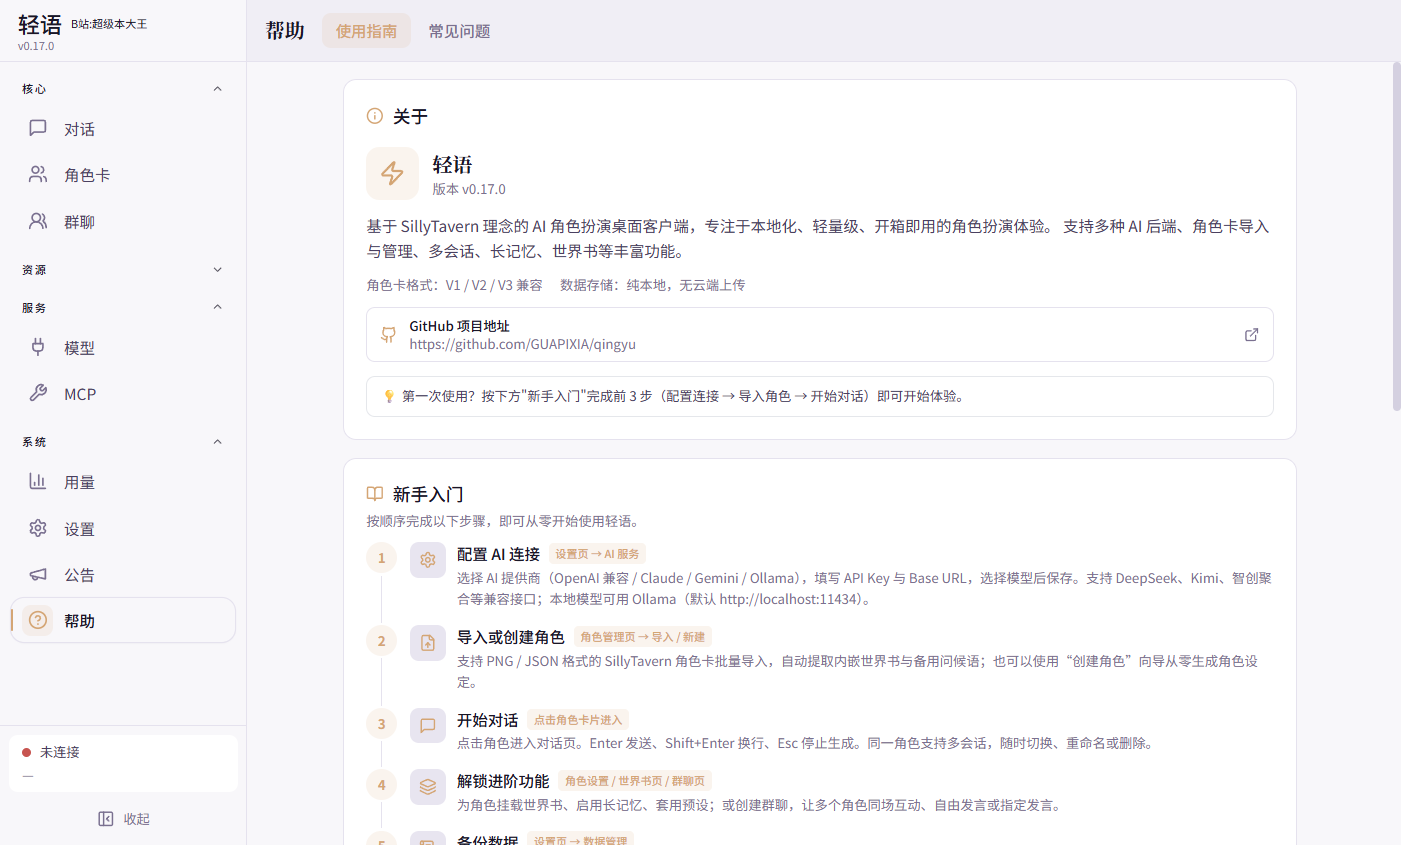
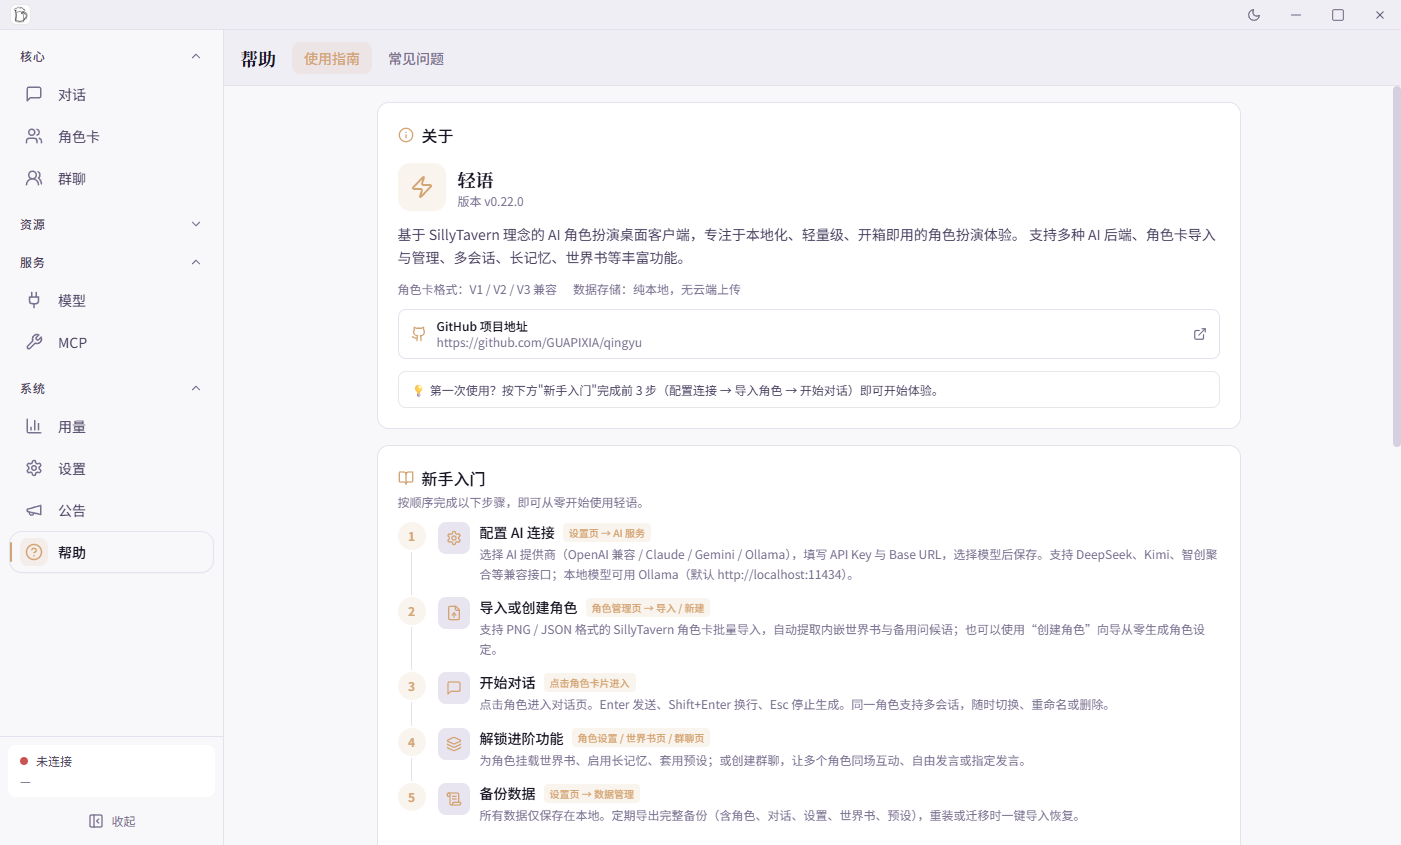
docs(readme): 更新 v0.22.0 界面截图与版本号
- 重新截取 README 四张界面图（模型管理 / 角色创建 / 设置中心 / 帮助中心），
  展示 Windows 无边框窗口新样式（30px 自绘标题栏、新侧栏、0.22.0 版本号），
  尺寸与旧图一致（1401×845）
- README 版本徽章、仓库结构表、截图说明同步到 v0.22.0

diff --git a/README.md b/README.md
@@ -3,7 +3,7 @@
 > 轻量级 AI 角色扮演桌面客户端 — 基于 SillyTavern 理念，专注本地化、开箱即用体验。
 
 <p align="center">
-  <img src="https://img.shields.io/badge/version-0.21.0-blue?style=flat-square" alt="version">
+  <img src="https://img.shields.io/badge/version-0.22.0-blue?style=flat-square" alt="version">
   <img src="https://img.shields.io/badge/electron-43.x-47848f?style=flat-square" alt="electron">
   <img src="https://img.shields.io/badge/react-18.x-61dafb?style=flat-square" alt="react">
   <img src="https://img.shields.io/badge/typescript-5.x-3178c6?style=flat-square" alt="typescript">
@@ -25,7 +25,7 @@
 
 ## 📸 程序截图
 
-以下截图来自 v0.17.0 桌面端实际运行界面。
+以下截图来自 v0.22.0 桌面端实际运行界面（Windows 无边框窗口新样式）。
 
 | 模型管理 | 角色创建 |
 |:---:|:---:|
@@ -41,7 +41,7 @@ PC 主仓通过 Git 子模块挂载 shared（实际拓扑，2026-10-14 核对）
 
 | 子项目 | 路径 | Git 仓库 | 说明 | 版本 |
 |--------|------|----------|------|------|
-| **桌面客户端** | `./` | `GUAPIXIA/qingyu`（main） | Electron + React 主应用 | v0.21.0 |
+| **桌面客户端** | `./` | `GUAPIXIA/qingyu`（main） | Electron + React 主应用 | v0.22.0 |
 | **共享核心** | `shared/` | `GUAPIXIA/qingyu-shared`（子模块） | chat-core 纯逻辑、跨端契约与 fixture | — |
 | **公告服务端** | `server/` | 同一仓库 | 在线公告 / 版本信息推送（可独立 Docker 部署） | v1.0.4 |
 
